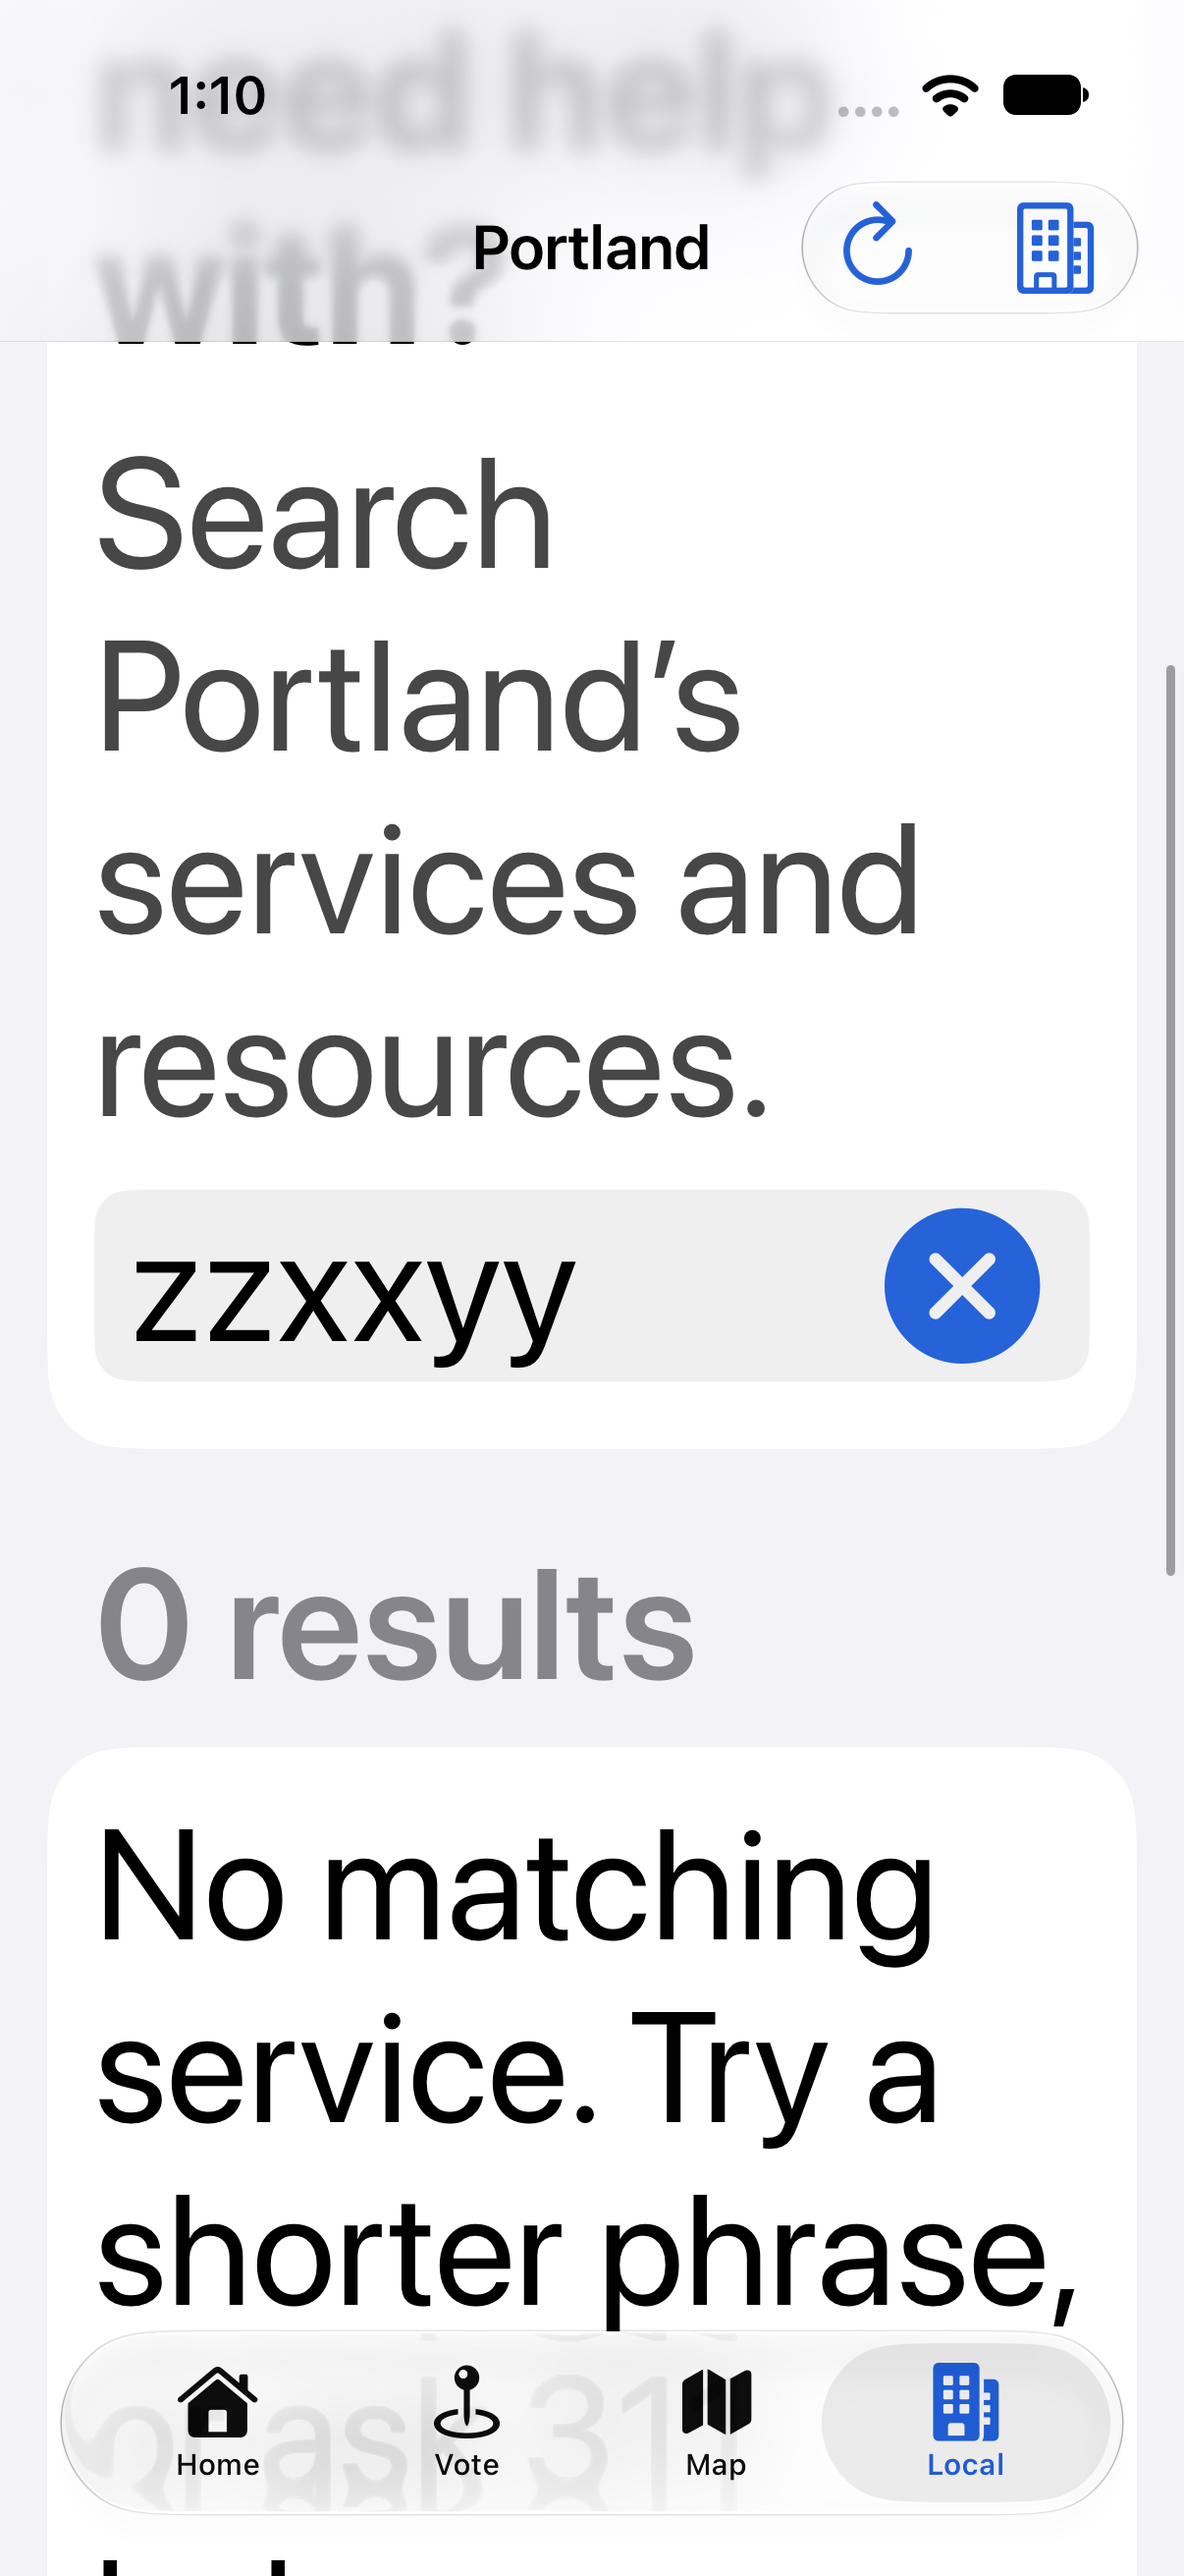
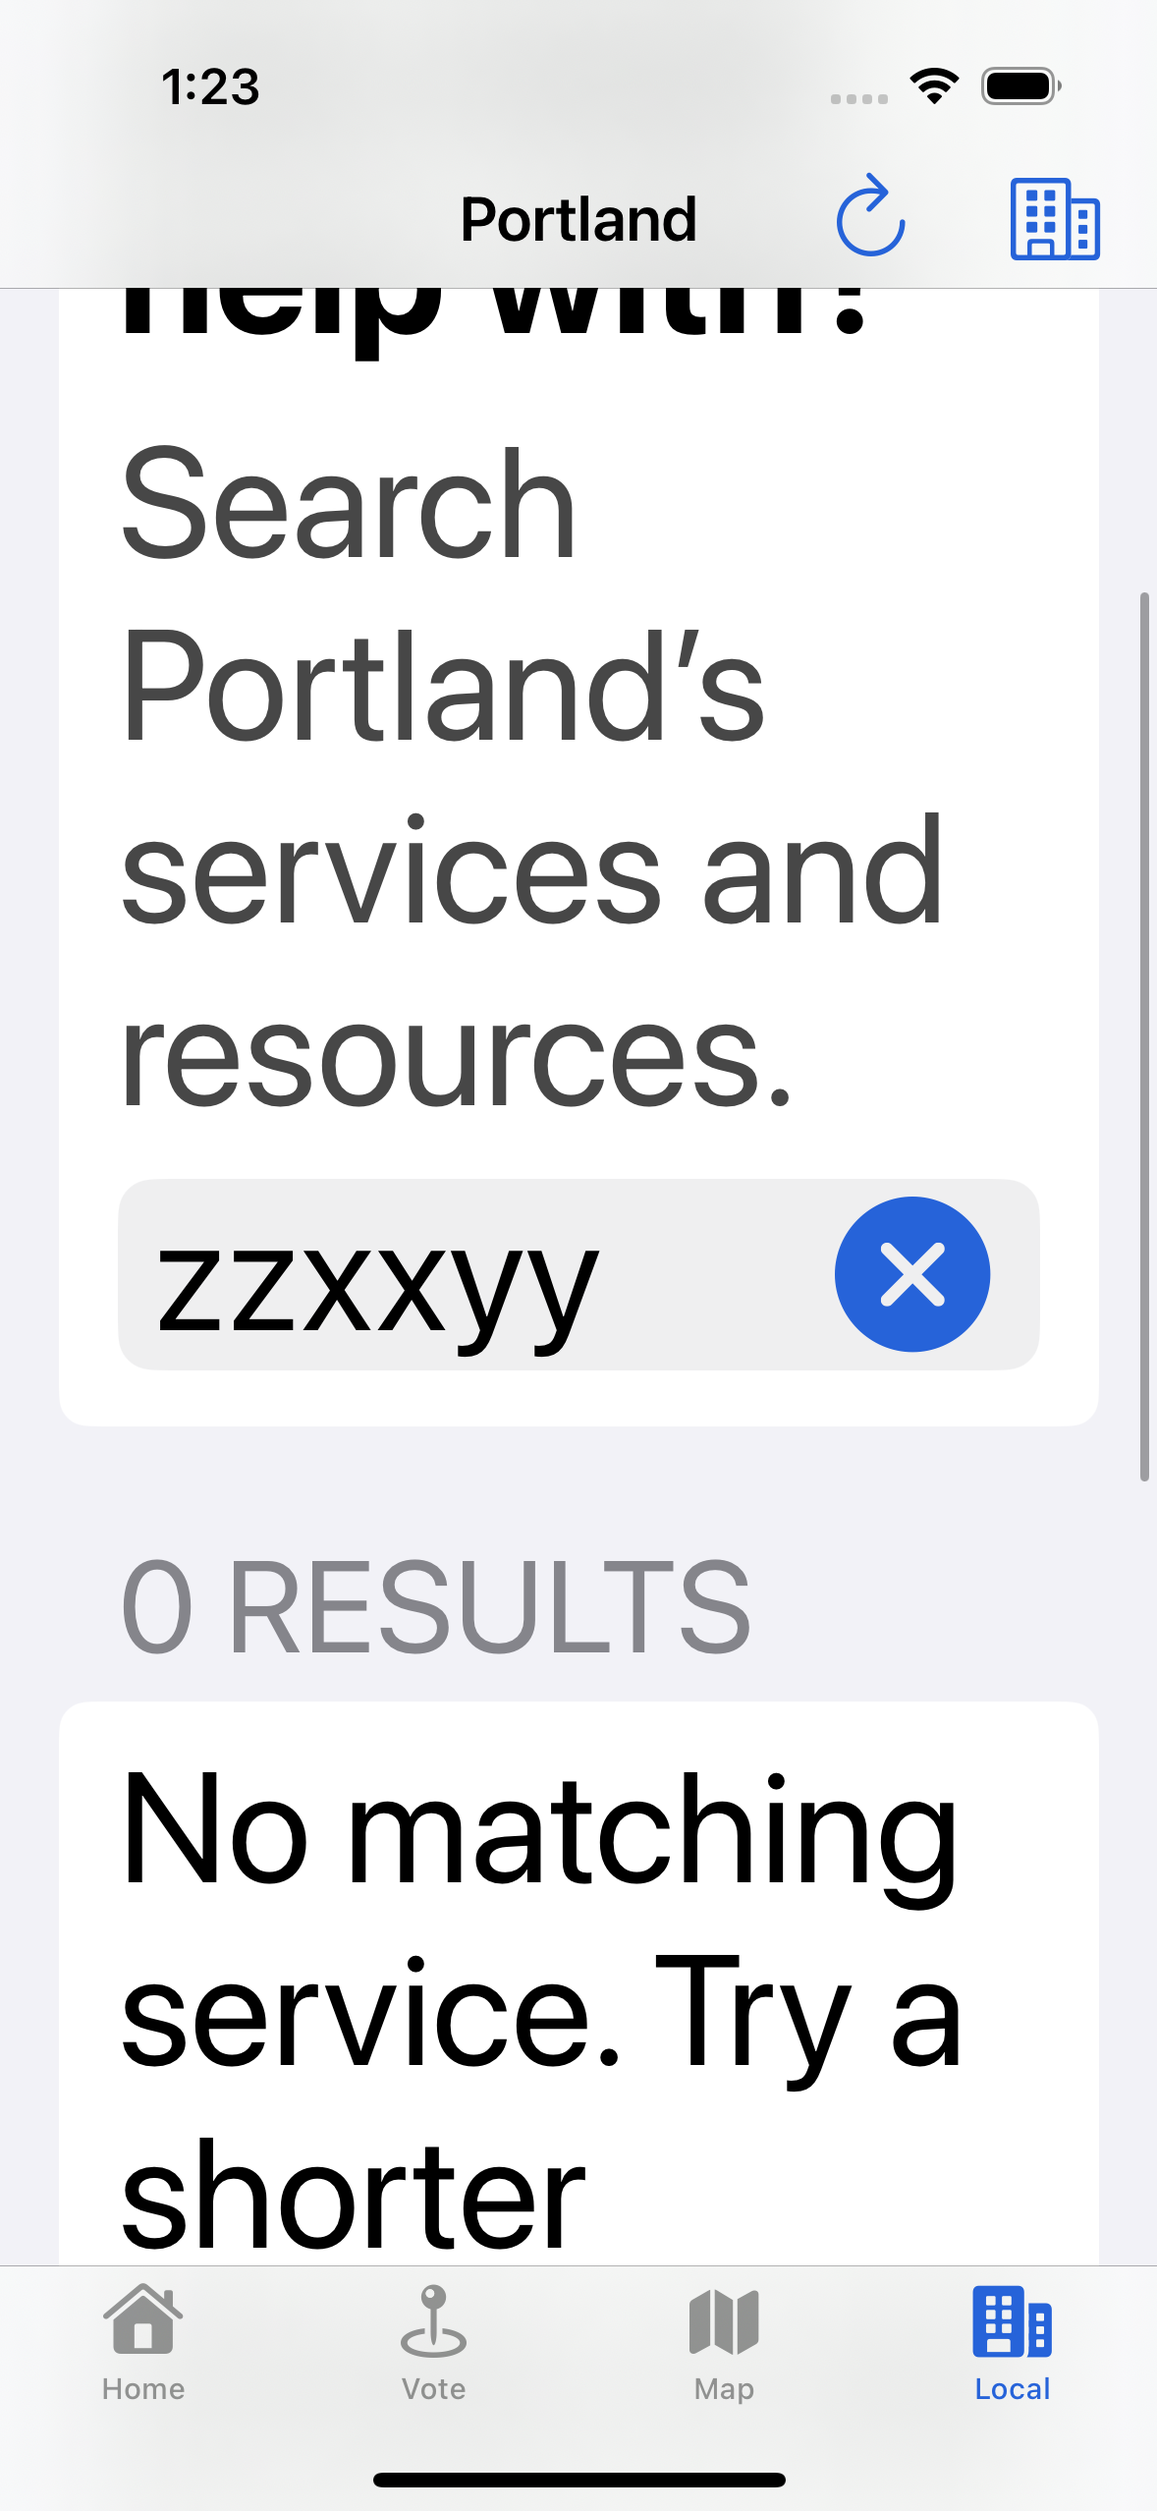
Record final native screenshots and validation limits

diff --git a/docs/local-overhaul/VALIDATION.md b/docs/local-overhaul/VALIDATION.md
@@ -1,4 +1,4 @@
-# Validation — November 24, 2026
+# Validation — November 25, 2026
 
 Source branch: `feat/local-civic-overhaul`, based on `origin/main` at `d5f1b6d`.
 
@@ -60,3 +60,45 @@ The runner accepts `UI_TEST_TARGET` for a focused smoke case while retaining all
 allow/deny simulators and the Release binary check. Focused runs are reported separately.
 The Release check writes `strings` to a file before matching, so `grep -q` cannot close a pipe
 early and hide a match under `pipefail`.
+
+The focused iOS 27 rerun loaded the editor and cancelled successfully. Its hierarchy exposed
+`New Event` → `Done`, rather than iOS 17's `Add`; the test now accepts either save label only
+within that toolbar. The same focused run also had five reminder-queue unit failures (empty
+scheduled queues) despite the allow UI step passing; their cause is not established. Earlier
+full newer-runtime runs passed all 77 units. No assertion is being skipped to hide this.
+
+Vercel preview deployed from the draft PR, but an unauthenticated `/api/local-feed` check returned
+HTTP 302. Preview API behavior is not verified; deployment protection was not changed.
+
+
+## Final iOS 17.5 and device artifact
+
+Final product code and the Add/Done-compatible test passed the full mandatory runner again:
+96 tests, zero failures/skips, Release fixture exclusion and widget-family checks passed.
+Main result: `Test-Vote4U-2026.11.24_01-22-04--0800.xcresult`.
+Screenshots now use full-screen XCTest captures; dark services, welcome and Map are replaced
+with whole-screen `simctl io screenshot` captures after idle when XCTest frames omitted UI.
+No image was cropped, stitched or retouched. Following and Calendar screenshots show DEBUG
+fixtures, not actual city listings.
+
+Signed device build: **1.0 (6)**, native source/test revision `bcd5922` (later native changes affect DEBUG test reset only).
+`/private/tmp/vote4u-device-overhaul-20261124/Build/Products/Release-iphoneos/Vote4U.app`.
+App and widget versions match; app family is iPhone and widget families are iPhone/iPad.
+Deep strict code-signature verification passed. The development profile includes the owner's
+previously connected iPhone and expires October 11, 2027. DEBUG fixture/launch strings are absent.
[1 lines of base64/hex data omitted]
+This build is ready for installation when the phone is reconnected; it has not been installed.
+
+PR: https://github.com/ShyamRavidath/voting-finder/pull/28 (draft). At `bcd5922`, backend, client lint/build and Playwright passed. Native CI passed all 77
+units and 16 of 17 smoke tests. Calendar cancellation and save succeeded; Following failed
+after app relaunch because the welcome screen appeared. Failure hierarchy confirms that
+state, rather than a missing/renamed segmented-control selector.
+
+The DEBUG reset ran inside store initializers, which SwiftUI can rerun when recreating views.
+Commit `235e071` moves it to app startup before the root view is constructed. This prevents
+later view construction from clearing persisted test data. The same Calendar/relaunch test
+is retained unchanged. Fresh CI and a focused newer-runtime runner are in progress.
+
+CI evidence: run `45364411766`; main result
+`Test-Vote4U-2026.11.24_09-32-45-+0000.xcresult`. New CI: run `45735038340`.
+No final all-green newer-runtime claim is made at this checkpoint.

diff --git a/docs/local-overhaul/REVIEW.md b/docs/local-overhaul/REVIEW.md
@@ -16,3 +16,29 @@ filled-button contrast. Existing dark AccentColor RGB(96,165,250) yields 6.69:1 
 
 Scope limits: Following, Council action details, iOS 27 and hardware behavior were not in the
 reviewer's initial inspected captures. The Calendar fixture screenshot is test evidence only.
+
+## Post-fix verdict — November 25
+
+The independent reviewer became unavailable due to its usage limit. The final scoring pass
+was performed inline using Impeccable's degraded finish-reviewer procedure; this is not an
+independent final approval. No native detector ran. This pass scores the existing findings,
+not a new full-surface design review.
+
+### verdict
+
+- **Resolved — dark caption links:** `local-dark-services.png` shows the brighter adaptive
+  accent on the dark panel. Root tint uses the existing dark asset; measured contrast is 6.69:1.
+- **Resolved — capture completeness:** `local-welcome.png` and `redesign-map.png` show the
+  status bar, native title, content, tabs and home indicator. The final Map capture has normal
+  top safe-area placement; no speculative navigation/layout patch was applied.
+- **Resolved — Following evidence:** `local-following.png` shows a retained DEBUG meeting,
+  its date and following state, plus the explicit no-notifications explanation.
+- No visual regressions identified in this fix batch. Council dispositions remain procedural
+  where the official record is procedural, rather than being relabeled final approval.
+
+### remaining
+
+Clear for the scored visual fixes. Hardware behavior and newer-runtime automated results are
+separate validation gates; see VALIDATION.md. The saved captures are raw simulator evidence.
+
+**disposition: ship** — applies only to the scored visual fixes, not deployment or release.

diff --git a/HANDOFF.md b/HANDOFF.md
@@ -37,8 +37,17 @@ the device build uses its dated bundle and honestly reports refresh failure. No 
 merge or public release is authorized here. Simulator success is not physical-device QA.
 
 Review PR: https://github.com/ShyamRavidath/voting-finder/pull/28 (draft).
-Implementation commit: `d427520`. Final Calendar timing check, screen recapture and signed build
-are in progress; see the worktree validation ledger for current evidence.
+Latest code: `235e071` (November 25). Full iOS 17.5 runner passed 96 tests on `bcd5922`;
+64 backend tests and live official import passed. Signed **1.0 (6)** is ready at
+`/private/tmp/vote4u-device-overhaul-20261124/Build/Products/Release-iphoneos/Vote4U.app`,
+not installed or uploaded. Subsequent code only moves DEBUG test reset to app startup.
+The native CI Calendar save/cancel passed, but relaunch exposed repeated test-data resets from
+SwiftUI store initialization; that reset was fixed in `235e071`. Fresh CI and a focused newer
+runtime run are underway. See the worktree validation ledger before claiming all-green CI.
+Final captures resolve the dark-link contrast and missing-bar evidence findings. The independent
+reviewer hit a usage limit, so its final findings were scored inline with that limitation documented.
+Keep PR #28 draft until remaining native checks are resolved. Owner merge/deploy and device QA
+remain separate from simulator validation.
 
 ## Current handoff — November 15, 2026: first two civic features implemented
 

diff --git a/ios/DESIGN.md b/ios/DESIGN.md
@@ -85,7 +85,7 @@ Native semantic colors have no single normative CSS color value. Use these UIKit
 
 **The Two Blue Roles Rule.** Use the adaptive asset tint for inline actions and the fixed action blue for prominent filled controls. Do not substitute one role for the other across the app.
 
-The initial review found insufficient dark-mode caption-link contrast under a fixed tint. The explicit adaptive root tint is implemented; recapture and review acceptance are pending at this extraction. The failed contrast is not a system token or accepted exception.
+The initial review found insufficient dark-mode caption-link contrast under a fixed tint. The explicit adaptive root tint is implemented. The final dark recapture resolves the contrast finding at 6.69:1; the inline scoring pass and its limits are recorded in REVIEW.md. The failed contrast is not a system token or accepted exception.
 
 ## Typography
 
